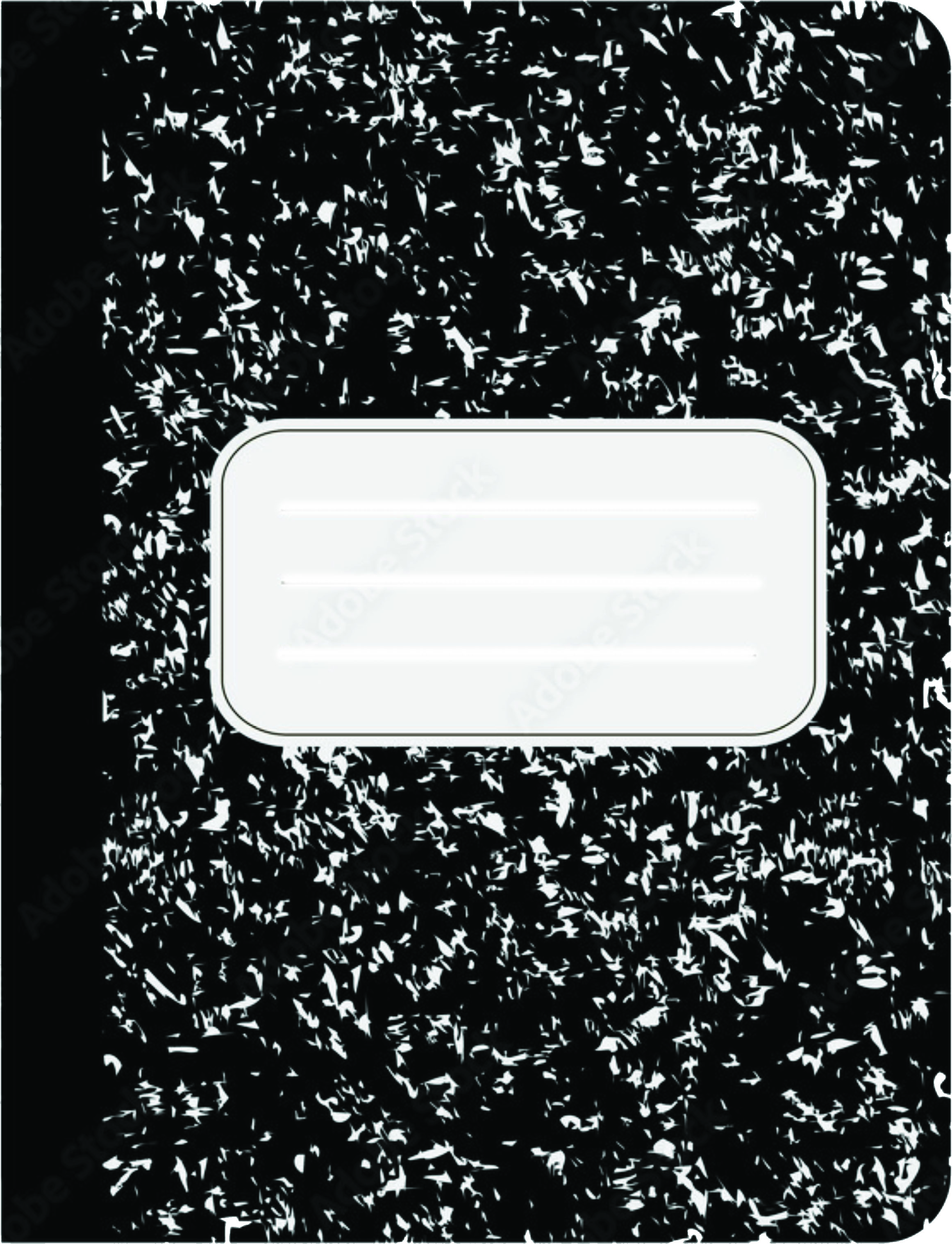
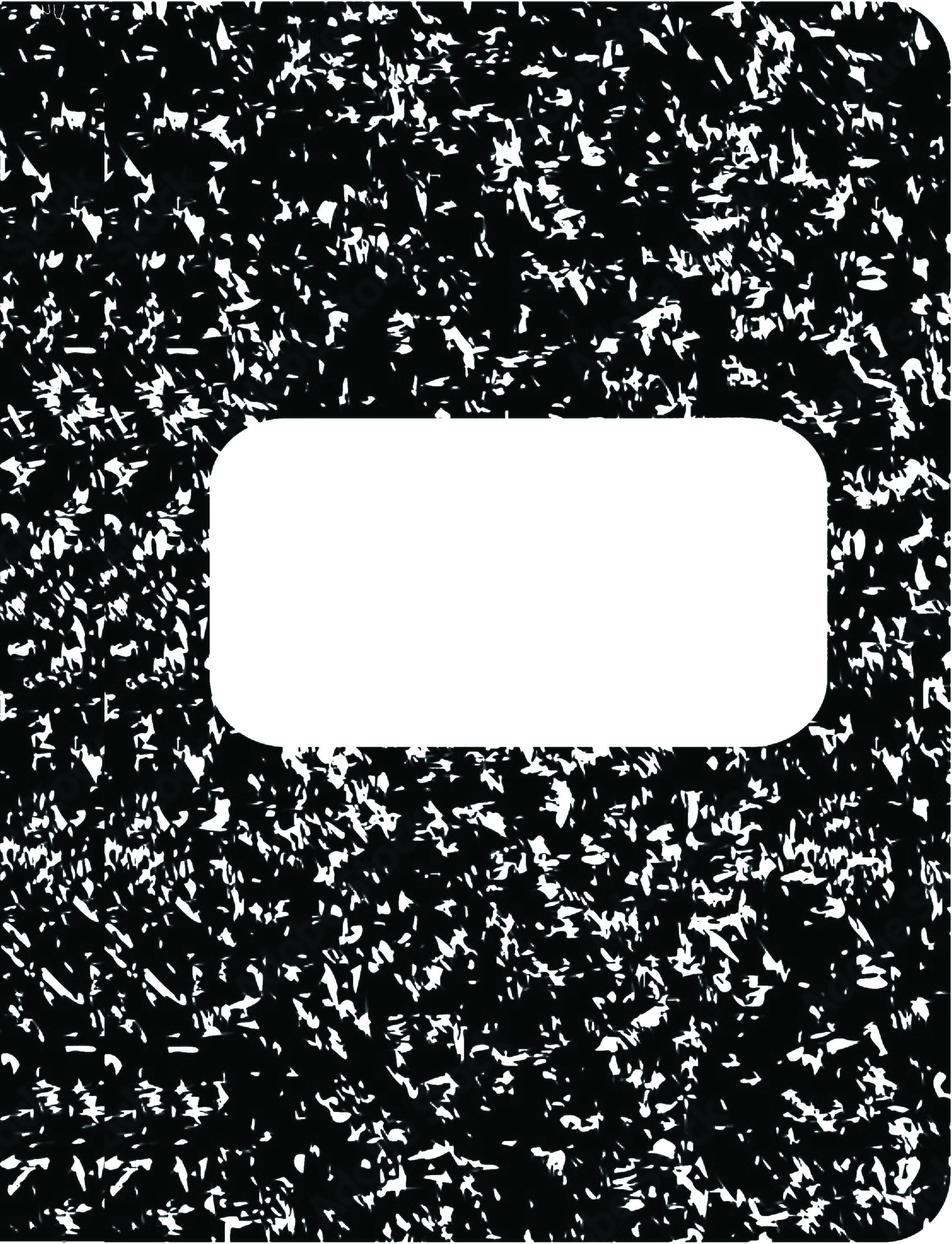
comment out journals background image

diff --git a/seeds/journalSeed.js b/seeds/journalSeed.js
@@ -6,30 +6,35 @@ const journalData = [
         "title": "Ideas",
         "date": 2016-10-02,
         "description": "Jotting down anything that inspires me",
+        "background": "blue",
         "user_id": 1,
     },
     {
         "title": "Personal",
         "date": 2010-04-19,
         "description": "Remembering all the details that make up my life",
+        "background": "red",
         "user_id": 2,
     },
     {
         "title": "Travel",
         "date": 2020-03-11,
         "description": "Memories from all over the world",
+        "background": "yellow",
         "user_id": 3,
     },
     {
         "title": "Creative",
         "date": 2019-05-22,
         "description": "Short stories, songs, poems and such",
+        "background": "purple",
         "user_id": 4,
     },
     {
         "title": "Feelings",
         "date": 2017-09-15,
         "description": "A place to remember and reflect",
+        "background": "green",
         "user_id": 5,
     },
 ]

diff --git a/public/css/style.css b/public/css/style.css
@@ -44,9 +44,10 @@ html, body {
 }
 
 .journals {
-    background-image: url(../assets/images/comp-cover.jpg);
+    /* background-image: url(../assets/images/comp-cover.jpg);
     background-size: cover;
     background-repeat: no-repeat;
+    z-index: -3; */
     height: 400px;
 }
 
